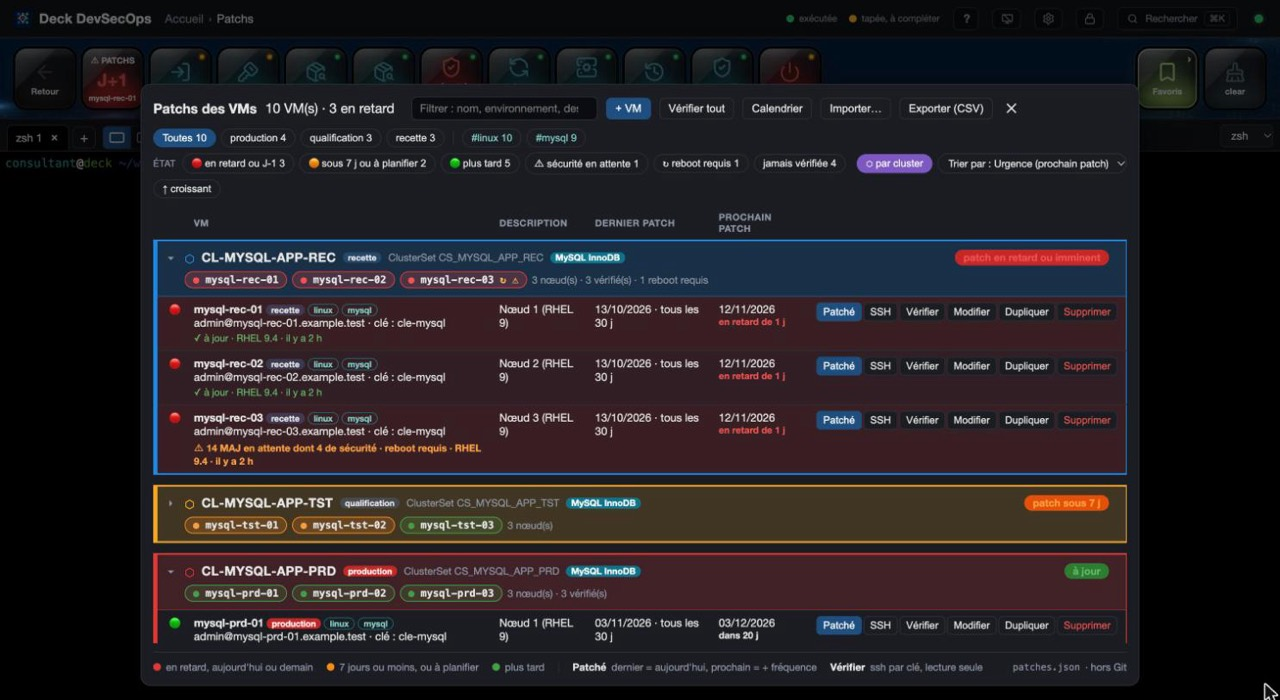
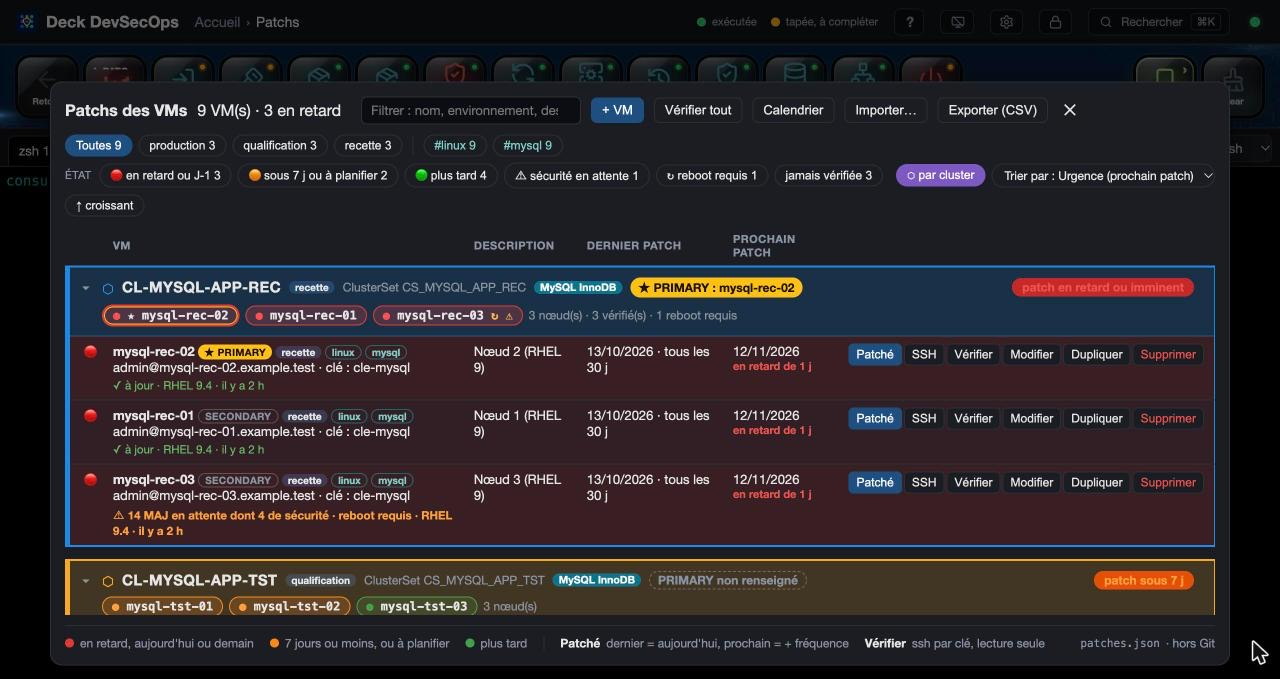
Patchs : rôle PRIMARY / SECONDARY des nœuds de cluster
- Champ Rôle (primary / secondary, alias acceptés) pour les VMs d'un cluster ; colonne CSV role
- Un seul PRIMARY par cluster : l'ancien repasse SECONDARY à l'enregistrement (message) ;
  à l'import, le dernier du fichier est gardé et c'est signalé ; une copie est SECONDARY
- Affichage : badge ★ PRIMARY, PRIMARY en tête de son cluster, rappelé dans l'en-tête
  (ou « PRIMARY non renseigné »), étoile sur la carte des nœuds
- Tests (92) ; docs/13 et capture ; README

diff --git a/public/app.js b/public/app.js
@@ -454,7 +454,7 @@ function handle(msg) {
         case "patch-saved":
             patchPending = false;
             $("#patch-form").hidden = true;
-            toast("VM enregistrée", "ok");
+            toast(msg.demoted?.length ? `${msg.name} devient PRIMARY · ${msg.demoted.join(", ")} repasse SECONDARY` : "VM enregistrée", "ok");
             break;
         case "patch-alert":
             patchAlert(msg.alerts);
@@ -3907,17 +3907,24 @@ function patchClusterHeader(cluster, nodes, all, folded = false) {
         ...[...new Set(total.map((v) => v.env))].map((e) => el(`patch-env env-${e}`, e)),
         ...(sets.length ? [el("patch-group-meta", `ClusterSet ${sets.join(", ")}`)] : []),
         ...(total.some((v) => v.profile === "mysql-innodb") ? [el("patch-profile", "MySQL InnoDB")] : []),
+        (() => {
+            const primary = total.find((v) => v.role === "primary");
+            return primary ? el("patch-group-primary", `★ PRIMARY : ${primary.name}`, "Nœud PRIMARY renseigné dans l'inventaire (à mettre à jour après une bascule)")
+                : el("patch-group-primary none", "PRIMARY non renseigné", "Modifier un nœud › Rôle dans le cluster : PRIMARY");
+        })(),
         el("grow", ""),
         el(`patch-group-state lvl-${worst}`, worst === "rouge" ? "patch en retard ou imminent" : worst === "orange" ? "patch sous 7 j" : "à jour")
     );
     // Carte des nœuds : un coup d'œil sur tout le cluster, même replié
     const map = Object.assign(document.createElement("div"), { className: "patch-group-nodes" });
-    for (const v of [...total].sort((a, b) => a.name.localeCompare(b.name, "fr", { numeric: true }))) {
+    for (const v of [...total].sort((a, b) => (b.role === "primary") - (a.role === "primary") || a.name.localeCompare(b.name, "fr", { numeric: true }))) {
         const d = patchDays(v);
         const flags = `${v.check?.reboot ? " ↻" : ""}${v.check?.security ? " ⚠" : ""}${v.check?.error ? " ✕" : ""}`;
         const pill = el(`patch-node-pill lvl-${vmLevel(v)}${nodes.includes(v) ? "" : " hidden-by-filter"}`, "",
             `${v.name} · ${v.env} · prochain patch ${frDate(v.nextPatch)} (${patchLabel(d)})${v.check?.reboot ? " · reboot requis" : ""}${v.check?.security ? ` · ${v.check.security} MAJ de sécurité` : ""}${v.check?.error ? ` · vérification : ${v.check.error}` : ""}`);
-        pill.append(el("patch-node-dot", "●"), ` ${v.name}`, ...(flags ? [el("patch-node-flags", flags)] : []));
+        pill.append(el("patch-node-dot", "●"), ` ${v.role === "primary" ? "★ " : ""}${v.name}`, ...(flags ? [el("patch-node-flags", flags)] : []));
+        if (v.role === "primary") { pill.classList.add("primary"); pill.title = `PRIMARY · ${pill.title}`; }
+        else if (v.role === "secondary") pill.title = `SECONDARY · ${pill.title}`;
         map.append(pill);
     }
     map.append(el("patch-group-meta", `${total.length} nœud(s)${nodes.length < total.length ? ` · ${nodes.length} affiché(s)` : ""}${checks ? ` · ${checks} vérifié(s)` : ""}${reboot ? ` · ${reboot} reboot requis` : ""}`));
@@ -4006,6 +4013,7 @@ function renderPatches() {
         const tr = Object.assign(document.createElement("tr"), { className: `patch-${level}` });
         const cell = (content, cls = "") => { const td = Object.assign(document.createElement("td"), { className: cls }); td.append(...[content].flat()); return td; };
         const name = Object.assign(document.createElement("strong"), { textContent: vm.name });
+        const role = vm.role ? Object.assign(document.createElement("span"), { className: `patch-role role-${vm.role}`, textContent: vm.role === "primary" ? "★ PRIMARY" : "SECONDARY", title: vm.role === "primary" ? "Nœud PRIMARY du cluster (lecture / écriture) : à patcher en dernier" : "Nœud SECONDARY du cluster" }) : "";
         const env = Object.assign(document.createElement("span"), { className: `patch-env env-${vm.env}`, textContent: vm.env });
         const tags = (vm.tags ?? []).map((t) => Object.assign(document.createElement("span"), { className: "patch-tag", textContent: t }));
         const where = [vm.host && vm.host !== vm.name ? vm.host : "", vm.identity ? `clé : ${vm.identity.split(/[\\/]/).pop()}` : ""].filter(Boolean).join(" · ");
@@ -4017,7 +4025,7 @@ function renderPatches() {
         tr.append(
             cell(Object.assign(document.createElement("span"), { className: "patch-dot", textContent: level === "rouge" ? "🔴" : level === "orange" ? "🟠" : "🟢" })),
             // Mode regroupé : cluster et profil déjà dans l'en-tête du groupe
-            cell([name, " ", env, ...tags.flatMap((t) => [" ", t]), grouped ? "" : patchClusterLine(vm), host, patchCheckLine(vm)]),
+            cell([name, " ", ...(role ? [role, " "] : []), env, ...tags.flatMap((t) => [" ", t]), grouped ? "" : patchClusterLine(vm), host, patchCheckLine(vm)]),
             cell(vm.description || "—", "patch-desc"),
             cell(`${frDate(vm.lastPatch)}${vm.everyDays ? ` · tous les ${vm.everyDays} j` : ""}`),
             cell([next, when]),
@@ -4045,6 +4053,8 @@ function renderPatches() {
             if (!groups.has(key)) groups.set(key, []);
             groups.get(key).push(vm);
         }
+        // Dans un cluster : le PRIMARY en tête, les autres dans l'ordre du tri
+        for (const list of groups.values()) list.sort((a, b) => (b.role === "primary") - (a.role === "primary"));
         const ordered = [...groups].sort(([a], [b]) => (a === "") - (b === ""));
         // Un bloc par cluster : espace, en-tête, nœuds (sauf replié) encadrés aux couleurs de l'environnement
         $("#patch-list").replaceChildren(...ordered.flatMap(([cluster, nodes], gi) => {
@@ -4103,6 +4113,8 @@ function openPatchForm(vm = null, { duplicate = false } = {}) {
     $("#patch-cluster").value = vm?.cluster ?? "";
     $("#patch-clusterset").value = vm?.clusterSet ?? "";
     $("#patch-profile").value = vm?.profile ?? "";
+    // Copie d'un nœud : jamais un second PRIMARY
+    $("#patch-role").value = duplicate && vm?.role ? "secondary" : vm?.role ?? "";
     // Clusters et ClusterSets déjà utilisés proposés à la saisie
     const usedValues = (k) => [...new Set((state.patches ?? []).map((v) => v[k]).filter(Boolean))].sort();
     $("#patch-cluster-list").replaceChildren(...usedValues("cluster").map((c) => new Option(c)));
@@ -4125,7 +4137,7 @@ function savePatch() {
         name: $("#patch-name").value, host: $("#patch-host").value, identity: $("#patch-identity").value, env: $("#patch-env").value,
         lastPatch: $("#patch-last").value, nextPatch: $("#patch-next").value,
         everyDays: $("#patch-every").value, description: $("#patch-desc").value, tags: $("#patch-tags").value,
-        cluster: $("#patch-cluster").value, clusterSet: $("#patch-clusterset").value, profile: $("#patch-profile").value
+        cluster: $("#patch-cluster").value, clusterSet: $("#patch-clusterset").value, profile: $("#patch-profile").value, role: $("#patch-role").value
     } });
 }
 
@@ -4212,10 +4224,10 @@ function showPatchImport(msg) {
     $("#patch-import-confirm").hidden = false;
 }
 
-const PATCH_TEMPLATE = "\uFEFFnom;hote;cle;environnement;dernier_patch;prochain_patch;frequence;tags;cluster;clusterset;profil;description\r\n"
-    + "app-prod-01;app-prod-01;~/.ssh/id_ed25519;production;10/10/2026;;30;linux, critique;;;standard;API paiement (RHEL 9), maintenance le mardi 22h\r\n"
-    + "mysql-rec-01;admin@10.0.0.21;;recette;;15/12/2026;30;linux, mysql;CL-MYSQL-REC;CS_MYSQL;mysql;Nœud 1 du cluster MySQL de recette\r\n"
-    + "mysql-rec-02;admin@10.0.0.22;;recette;;16/12/2026;30;linux, mysql;CL-MYSQL-REC;CS_MYSQL;mysql;Nœud 2 (un nœud à la fois)\r\n";
+const PATCH_TEMPLATE = "\uFEFFnom;hote;cle;environnement;dernier_patch;prochain_patch;frequence;tags;cluster;clusterset;profil;role;description\r\n"
+    + "app-prod-01;app-prod-01;~/.ssh/id_ed25519;production;10/10/2026;;30;linux, critique;;;standard;;API paiement (RHEL 9), maintenance le mardi 22h\r\n"
+    + "mysql-rec-01;admin@10.0.0.21;;recette;;15/12/2026;30;linux, mysql;CL-MYSQL-REC;CS_MYSQL;mysql;primary;Nœud 1 du cluster MySQL de recette\r\n"
+    + "mysql-rec-02;admin@10.0.0.22;;recette;;16/12/2026;30;linux, mysql;CL-MYSQL-REC;CS_MYSQL;mysql;secondary;Nœud 2 (un nœud à la fois)\r\n";
 
 /** VM passée à l'orange / au rouge : message et notification du système (si autorisée), une fois par seuil. */
 function patchAlert(alerts) {

diff --git a/public/index.html b/public/index.html
@@ -639,7 +639,7 @@
                 <strong id="patch-import-title"></strong>
                 <span id="patch-import-summary"></span>
                 <ul id="patch-import-errors" class="patch-import-errors"></ul>
-                <span class="hint">Colonnes reconnues : nom (obligatoire), hote, cle, environnement, dernier_patch, prochain_patch, frequence, tags, cluster, clusterset, profil (standard ou mysql), description ; séparateur « ; » ou « , » ; dates JJ/MM/AAAA. Les VMs existantes (même nom) sont mises à jour, aucune n'est supprimée. <a href="#" id="patch-template">Télécharger un modèle CSV</a></span>
+                <span class="hint">Colonnes reconnues : nom (obligatoire), hote, cle, environnement, dernier_patch, prochain_patch, frequence, tags, cluster, clusterset, profil (standard ou mysql), role (primary ou secondary), description ; séparateur « ; » ou « , » ; dates JJ/MM/AAAA. Les VMs existantes (même nom) sont mises à jour, aucune n'est supprimée. <a href="#" id="patch-template">Télécharger un modèle CSV</a></span>
                 <span class="settings-actions">
                     <button type="button" id="patch-import-ok" class="primary">Importer</button>
                     <button type="button" id="patch-import-cancel">Annuler</button>
@@ -670,6 +670,13 @@
                         <select id="patch-profile">
                             <option value="">standard</option>
                             <option value="mysql-innodb">MySQL InnoDB Cluster</option>
+                        </select>
+                    </label>
+                    <label>Rôle dans le cluster <span class="hint">un seul PRIMARY : l'ancien repasse SECONDARY</span>
+                        <select id="patch-role">
+                            <option value="">non renseigné</option>
+                            <option value="primary">PRIMARY</option>
+                            <option value="secondary">SECONDARY</option>
                         </select>
                     </label>
                 </div>

diff --git a/public/style.css b/public/style.css
@@ -1611,3 +1611,10 @@ input[type="date"]::-webkit-calendar-picker-indicator:hover, input[type="datetim
 .patch-node-pill.lvl-rouge .patch-node-dot { color: #ff5252; }
 .patch-node-pill.lvl-orange .patch-node-dot { color: #ffa040; }
 .patch-node-flags { color: #ffb74d; font-weight: 800; }
+/* Rôle dans le cluster : PRIMARY mis en avant (doré), SECONDARY discret */
+.patch-role { display: inline-block; padding: 0 6px; border-radius: 8px; font-size: 10px; font-weight: 800; letter-spacing: .03em; }
+.patch-role.role-primary { color: #1a1300; background: #ffc107; }
+.patch-role.role-secondary { color: var(--muted); border: 1px solid color-mix(in srgb, var(--text) 25%, transparent); }
+.patch-group-primary { padding: 1px 8px; border-radius: 10px; font-size: 12px; font-weight: 800; color: #1a1300; background: #ffc107; }
+.patch-group-primary.none { color: var(--muted); background: transparent; border: 1px dashed color-mix(in srgb, var(--text) 30%, transparent); font-weight: 600; }
+.patch-node-pill.primary { border-width: 2px; box-shadow: 0 0 0 1px #ffc107 inset; font-weight: 800; }

diff --git a/README.md b/README.md
@@ -205,7 +205,7 @@ Après une modification de `config.jsonc` ou `paths.json`, redémarrer le serveu
 
 ## Patchs des VMs
 
-Rubrique **Patchs** (à cocher dans Réglages › Rubriques) : inventaire de tes VMs (nom, hôte SSH, clé SSH pour `ssh -i`, environnement, tags libres (`linux, dmz, critique`), description, dernier et prochain patch, fréquence) dans `patches.json` (hors Git, sauvegardé, inclus dans la configuration complète). Le **voyant patchs** affiche la VM la plus urgente (J-3, J, J+2 en retard) : vert, **orange à 7 jours ou moins**, **rouge à J-1, le jour même ou en retard** ; alertes une fois par seuil comme pour les certificats. **Patché** met le dernier patch à aujourd'hui et recalcule le prochain avec la fréquence (noté dans le journal). Touches **ssh VM** et **ssh -i VM** (clé puis hôte, listes réelles) ; bouton **SSH** de l'inventaire avec la clé de la VM si elle est renseignée. Touches de vérification sur la VM après un ssh : mises à jour en attente (apt / dnf), sécurité, redémarrage requis, noyau, historique, correctifs Windows. **Import en masse** depuis un CSV (Excel : séparateur `;`, dates JJ/MM/AAAA ; colonnes nom, hote, cle, environnement, dernier_patch, prochain_patch, frequence, tags, description) avec aperçu avant confirmation (ajout ou mise à jour par nom, jamais de suppression), **export CSV** réimportable et modèle à remplir. **Terminal connecté à une VM** : cadre de couleur autour du terminal (rouge en production, bleu sinon), étiquette accrochée au cadre (« SSH · app-prod-01 · production ») et nom sur l'onglet : VM de l'inventaire, sinon l'hôte ; seule la destination est lue dans la commande ssh. Inventaire lisible (lignes alternées, ligne survolée, liseré d'urgence). **Filtres** par environnement, par tags (combinés) et par **état** (en retard, sous 7 j, sécurité en attente, reboot requis, jamais vérifiée, vérification en échec), avec le nombre de VMs ; **tri** par urgence, nom, environnement, dates, MAJ en attente ou dernière vérification (menu, ou clic sur les titres de colonnes ; retenu). Touches **cluster status** et **clusterset status** (MySQL InnoDB Cluster, à lancer sur un nœud après le ssh : `mysqlsh root@$(hostname) -- cluster status` / `clusterset status --extended=1`, mot de passe demandé par mysqlsh). **Clusters** : champs Cluster, ClusterSet et Profil (standard ou MySQL InnoDB Cluster) par VM, colonnes CSV `cluster`, `clusterset`, `profil` ; **⬡ par cluster** regroupe l'inventaire avec un en-tête par cluster (environnement, ClusterSet, nœuds, reboot requis, état le plus urgent). **Dupliquer** une VM : formulaire pré-rempli, nom suivant libre (`app-prod-01` → `app-prod-02`). Les touches qui demandent un hôte (**ssh VM**, **ssh -i VM**, rubrique SSH) proposent **les VMs de l'inventaire en tête** (nom et environnement affichés), la clé de la VM étant reprise pour `ssh -i`. **Vérifier** / **Vérifier tout** : ssh par clé, sans mot de passe (`BatchMode`, clé d'hôte jamais acceptée à ta place), en **lecture seule** : mises à jour en attente dont sécurité (apt, dnf/yum ; zypper, apk), redémarrage requis, OS, noyau ; résultat gardé dans l'inventaire. Détails : [docs/13-patchs.md](docs/13-patchs.md).
+Rubrique **Patchs** (à cocher dans Réglages › Rubriques) : inventaire de tes VMs (nom, hôte SSH, clé SSH pour `ssh -i`, environnement, tags libres (`linux, dmz, critique`), description, dernier et prochain patch, fréquence) dans `patches.json` (hors Git, sauvegardé, inclus dans la configuration complète). Le **voyant patchs** affiche la VM la plus urgente (J-3, J, J+2 en retard) : vert, **orange à 7 jours ou moins**, **rouge à J-1, le jour même ou en retard** ; alertes une fois par seuil comme pour les certificats. **Patché** met le dernier patch à aujourd'hui et recalcule le prochain avec la fréquence (noté dans le journal). Touches **ssh VM** et **ssh -i VM** (clé puis hôte, listes réelles) ; bouton **SSH** de l'inventaire avec la clé de la VM si elle est renseignée. Touches de vérification sur la VM après un ssh : mises à jour en attente (apt / dnf), sécurité, redémarrage requis, noyau, historique, correctifs Windows. **Import en masse** depuis un CSV (Excel : séparateur `;`, dates JJ/MM/AAAA ; colonnes nom, hote, cle, environnement, dernier_patch, prochain_patch, frequence, tags, description) avec aperçu avant confirmation (ajout ou mise à jour par nom, jamais de suppression), **export CSV** réimportable et modèle à remplir. **Terminal connecté à une VM** : cadre de couleur autour du terminal (rouge en production, bleu sinon), étiquette accrochée au cadre (« SSH · app-prod-01 · production ») et nom sur l'onglet : VM de l'inventaire, sinon l'hôte ; seule la destination est lue dans la commande ssh. Inventaire lisible (lignes alternées, ligne survolée, liseré d'urgence). **Filtres** par environnement, par tags (combinés) et par **état** (en retard, sous 7 j, sécurité en attente, reboot requis, jamais vérifiée, vérification en échec), avec le nombre de VMs ; **tri** par urgence, nom, environnement, dates, MAJ en attente ou dernière vérification (menu, ou clic sur les titres de colonnes ; retenu). Touches **cluster status** et **clusterset status** (MySQL InnoDB Cluster, à lancer sur un nœud après le ssh : `mysqlsh root@$(hostname) -- cluster status` / `clusterset status --extended=1`, mot de passe demandé par mysqlsh). **Clusters** : champs Cluster, ClusterSet, Profil (standard ou MySQL InnoDB Cluster) et **Rôle** (PRIMARY / SECONDARY, un seul PRIMARY par cluster : l'ancien repasse SECONDARY) par VM, colonnes CSV `cluster`, `clusterset`, `profil`, `role` ; PRIMARY mis en avant (badge doré, en tête du cluster, rappelé dans l'en-tête) ; **⬡ par cluster** regroupe l'inventaire avec un en-tête par cluster (environnement, ClusterSet, nœuds, reboot requis, état le plus urgent). **Dupliquer** une VM : formulaire pré-rempli, nom suivant libre (`app-prod-01` → `app-prod-02`). Les touches qui demandent un hôte (**ssh VM**, **ssh -i VM**, rubrique SSH) proposent **les VMs de l'inventaire en tête** (nom et environnement affichés), la clé de la VM étant reprise pour `ssh -i`. **Vérifier** / **Vérifier tout** : ssh par clé, sans mot de passe (`BatchMode`, clé d'hôte jamais acceptée à ta place), en **lecture seule** : mises à jour en attente dont sécurité (apt, dnf/yum ; zypper, apk), redémarrage requis, OS, noyau ; résultat gardé dans l'inventaire. Détails : [docs/13-patchs.md](docs/13-patchs.md).
 
 **Échéances** (bouton Calendrier, ou ⌘K) : calendrier du mois des prochains patchs et des expirations de certificats, liste du retard et des 60 prochains jours, **export .ics** pour Outlook / Google Agenda (rappel 3 j avant en production, 1 j sinon ; réimporter met à jour sans dupliquer). **Synthèse du client** (⌘K) : état de la mission (contexte kubectl, certificats et VMs par environnement, à traiter, échéances à 30 jours, actions en production des 7 derniers jours), à copier en Markdown ou télécharger. Détails : [docs/14-echeances-et-synthese.md](docs/14-echeances-et-synthese.md).
 

diff --git a/docs/13-patchs.md b/docs/13-patchs.md
@@ -90,7 +90,13 @@ environnements en même temps. Pour chaque VM, trois champs facultatifs :
 - **Cluster** : le nom du cluster (ex. `CL-MYSQL-APP-REC`) ; les clusters déjà saisis sont proposés ;
 - **ClusterSet** : l'ensemble qui contient le cluster (MySQL InnoDB ClusterSet) ;
 - **Profil** : *standard* ou **MySQL InnoDB Cluster** (étiquette « MySQL InnoDB » ; base des futurs contrôles propres
-  à MySQL).
+  à MySQL) ;
+- **Rôle dans le cluster** : **PRIMARY** ou **SECONDARY** (renseigné à la main). **Un seul PRIMARY par cluster** :
+  désigner un nouveau PRIMARY (après une bascule, un `forceQuorum`…) repasse l'ancien en SECONDARY, avec un message.
+
+Le PRIMARY est mis en avant : badge doré **★ PRIMARY** sur sa ligne, **en tête** de son cluster, étoile et cercle doré
+sur la carte des nœuds, et rappelé dans l'en-tête (« ★ PRIMARY : mysql-rec-02 ») ; « PRIMARY non renseigné » sinon.
+C'est le nœud à patcher **en dernier**.
 
 **⬡ par cluster** (à côté du tri) regroupe l'inventaire en **blocs**, un par cluster, encadrés aux couleurs de
 l'environnement (production rouge, recette bleu, qualification ambre, développement vert) :
@@ -103,7 +109,7 @@ l'environnement (production rouge, recette bleu, qualification ambre, développe
 - les nœuds dessous, triés selon le tri choisi ; les VMs sans cluster à la fin. Hors regroupement, le cluster et le profil s'affichent sous le
 nom de la VM. Le champ **Filtrer** cherche aussi dans le cluster et le ClusterSet.
 
-**Dupliquer** un nœud garde son cluster, son ClusterSet et son profil : pratique pour ajouter le nœud suivant
+**Dupliquer** un nœud garde son cluster, son ClusterSet et son profil (la copie est SECONDARY) : pratique pour ajouter le nœud suivant
 (`mysql-rec-03` → `mysql-rec-04`).
 
 ## Vérifier une VM en un clic
@@ -151,7 +157,8 @@ patch et la fréquence, le prochain est calculé. Une erreur s'affiche dans le f
 
 - une ligne d'en-tête, puis une VM par ligne ; colonnes reconnues, dans n'importe quel ordre, en français ou en
   anglais : `nom` (obligatoire), `hote`, `cle`, `environnement`, `dernier_patch`, `prochain_patch`, `frequence`,
-  `tags` (séparés par des virgules), `cluster`, `clusterset`, `profil` (`standard` ou `mysql`), `description` ;
+  `tags` (séparés par des virgules), `cluster`, `clusterset`, `profil` (`standard` ou `mysql`), `role` (`primary` ou `secondary` ; un seul PRIMARY
+  par cluster, le dernier du fichier est gardé et c'est signalé), `description` ;
 - séparateur `;` (Excel en français), `,` ou tabulation, détecté automatiquement ; valeurs entre guillemets acceptées ;
 - dates `JJ/MM/AAAA` ou `AAAA-MM-JJ` ; environnements `prod`, `dev`, `qualif` reconnus.
 
